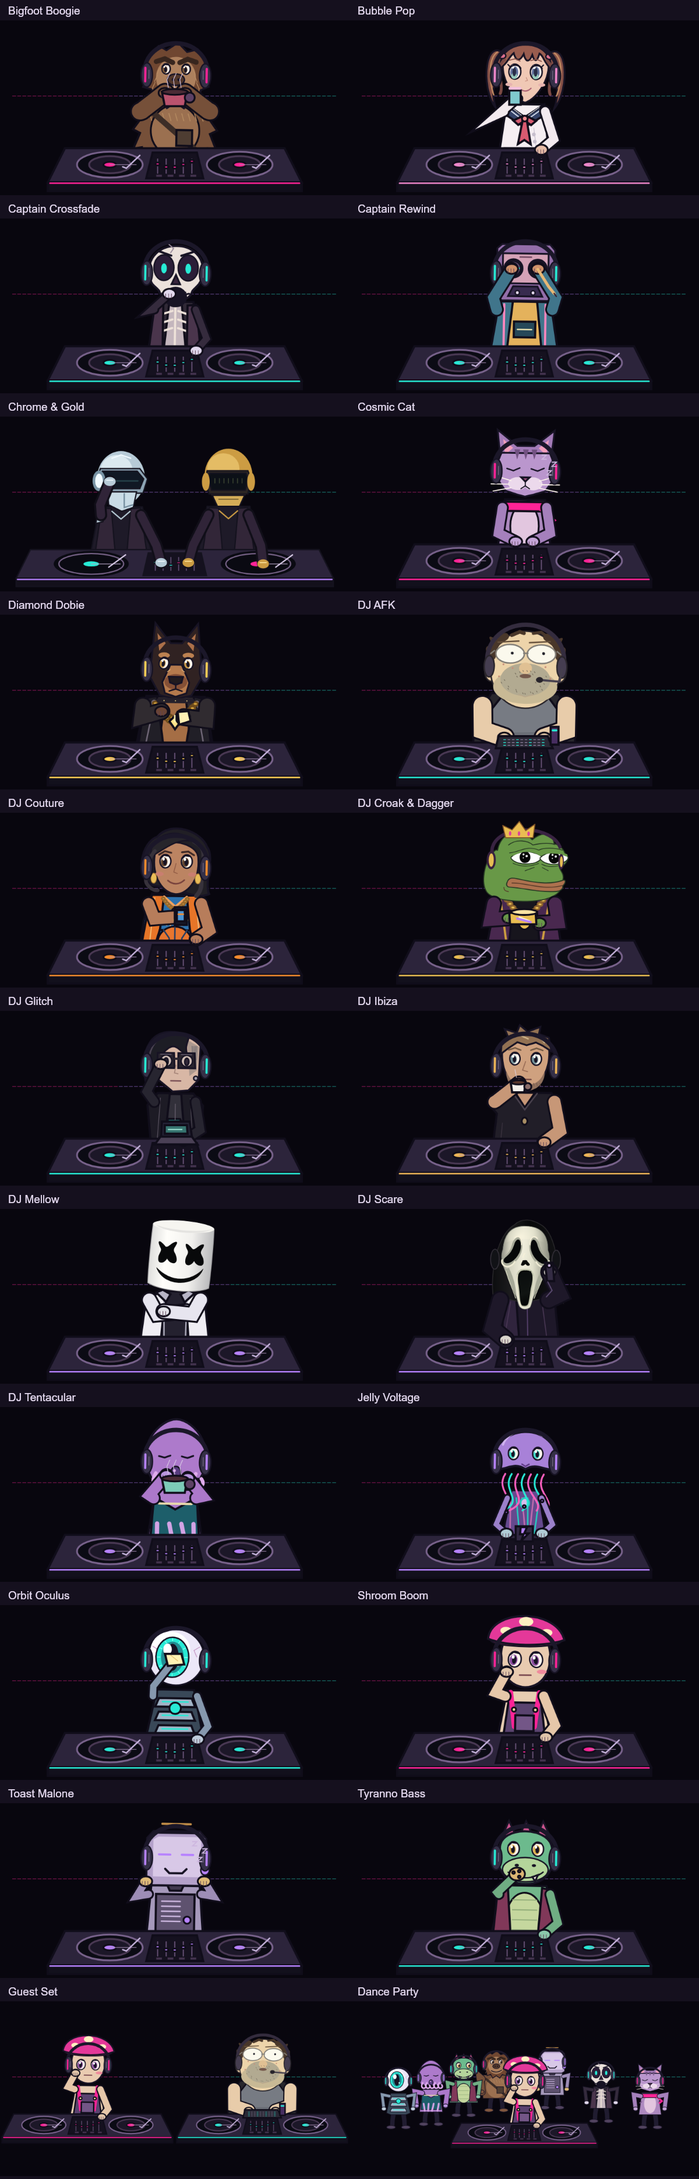
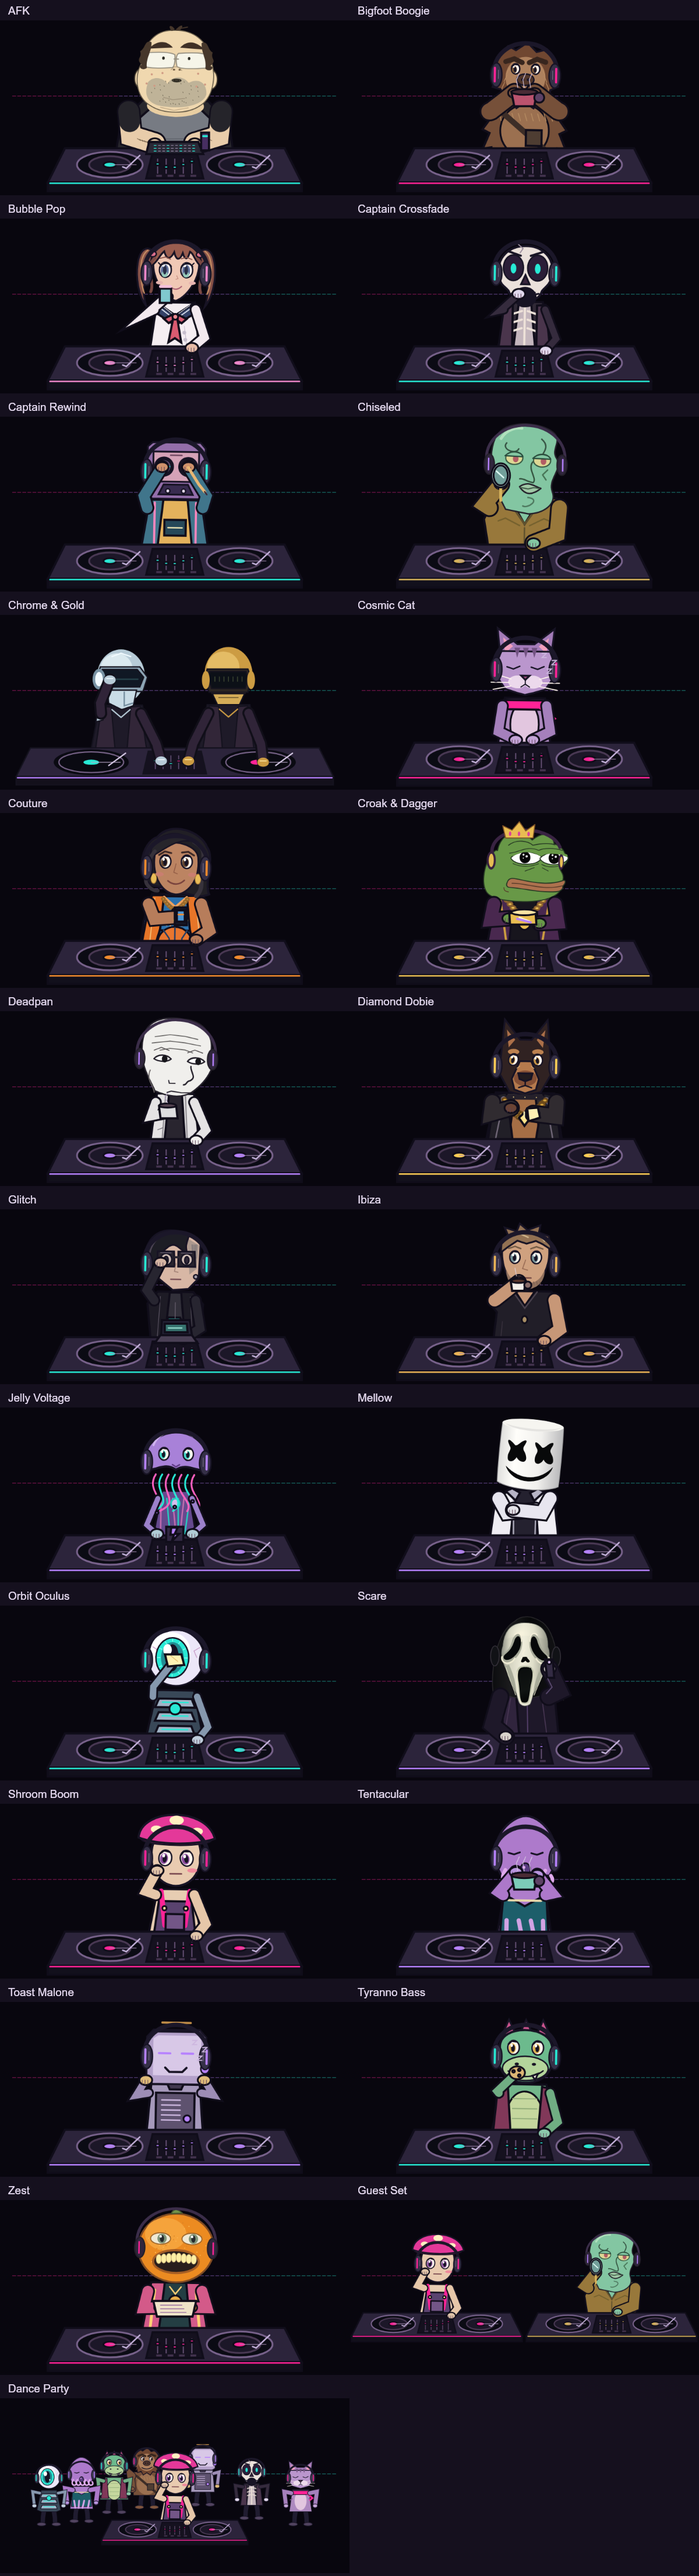
Add meme trio, refine AFK and simplify character names

Changed region(s): [[0.0, 0.0, 0.4933, 0.9925], [0.4933, 0.0, 0.9867, 0.9925]]

diff --git a/README.md b/README.md
@@ -8,7 +8,7 @@ Audio capture starts automatically. Explore EQ Bars, Warp Tunnel, Synth Grid, Sp
 
 ![Beat DJ live visualizer](docs/visualizer-7.png)
 
-**[Explore the illustrated visualizer and character guide →](docs/VISUAL-GUIDE.md)** — screenshots of all eight effects, all 17 runners, all six fighters and all 22 DJ choices, plus Chrome & Gold’s five new set routines.
+**[Explore the illustrated visualizer and character guide →](docs/VISUAL-GUIDE.md)** — screenshots of all eight effects, all 17 runners, all six fighters and all 25 DJ choices, plus Chrome & Gold’s five new set routines.
 
 ## Requirements
 
@@ -50,7 +50,7 @@ On the original Spotify screen, swipe sideways to cycle artwork and effects; swi
 
 **Beat Fighter:** six fighters, including Master Jin and The Bride, with varied targets, spinning kicks, jumps, ducks and character-specific strikes. Fighters hold a breathing ready stance between encounters. The shared Spectrum Waves effect remains behind them at reduced opacity; static arena scenery is removed. Silence animations retain their captions. Combat pace is independent of Runner and DJ speed.
 
-**Beat DJ:** twenty-two choices, alphabetized with Guest Set and Dance Party last. Distinct bodies, faces and outfits accompany scratches, fader moves, headphone checks, crowd gestures, occasional headbangs and character-specific quiet activities. DJ Croak & Dagger wears a crown and gold chain and polishes his gold during silence; DJ AFK has a broad gamer build and a keyboard break. DJ Couture takes peace-sign selfies; Toast Malone has an occasional toast/fire routine; Bubble Pop uses a bubble wand. Chrome & Gold share one two-platter table and trade mixing/hype roles, with five additional smoothly blended routines. Dance Party caps the scene at eight characters to limit rendering load.
+**Beat DJ:** twenty-five choices, alphabetized with Guest Set and Dance Party last. Distinct bodies, faces and outfits accompany scratches, fader moves, headphone checks, crowd gestures, occasional headbangs and character-specific quiet activities. Croak & Dagger wears a crown and gold chain and polishes his gold during silence; AFK has a broad gamer build, works the mixer and takes a keyboard break. Deadpan, Zest and Chiseled add coffee, joke-notes and mirror-check quiet activities. Couture takes peace-sign selfies; Toast Malone has an occasional toast/fire routine; Bubble Pop uses a bubble wand. Chrome & Gold share one two-platter table and trade mixing/hype roles, with five additional smoothly blended routines. Dance Party caps the scene at eight characters to limit rendering load.
 
 See the [visual guide](docs/VISUAL-GUIDE.md) for every character and effect.
 

diff --git a/docs/VISUAL-GUIDE.md b/docs/VISUAL-GUIDE.md
@@ -46,7 +46,7 @@ Planted martial artists with varied target heights, strikes and evasions; live S
 
 ## Beat DJ
 
-Twenty-two selectable DJ scenes, including shared-table Chrome & Gold, Guest Set and Dance Party.
+Twenty-five selectable DJ scenes, including shared-table Chrome & Gold, Guest Set and Dance Party.
 
 ![Beat DJ screenshot](visualizer-7.png)
 
@@ -66,7 +66,7 @@ Master Jin, Iron Monk, Jade Lotus, Ember Fox, Chrome Fist and The Bride. Distinc
 
 The gallery follows the alphabetical picker order, with Guest Set and Dance Party last. Tap the picture to cycle without opening a menu. The music-note button toggles lyrics independently.
 
-![All twenty-two Beat DJ scenes](dj-characters.png)
+![All twenty-five Beat DJ scenes](dj-characters.png)
 
 ## When the music stops
 
@@ -78,11 +78,17 @@ Characters settle into individual quiet activities after silence is detected, th
 
 ![DJ quiet activities](dj-quiet.png)
 
+## New arrivals: Deadpan, Zest and Chiseled
+
+Deadpan takes a coffee break, Zest reads joke notes and Chiseled admires his jaw in a mirror. All three join Guest Set and Dance Party.
+
+![Deadpan, Zest and Chiseled performing and resting](meme-trio.png)
+
 ## New arrivals: royal frog and gamer
 
-DJ Croak & Dagger uses the chosen crown-and-chain design, with a three-quarter frog face. DJ AFK has a broad gray-and-black shirt, glasses, scruffy hair and a headset. Both join the rotating Guest Set and Dance Party cast.
+Croak & Dagger uses the chosen crown-and-chain design, with a three-quarter frog face. AFK has a broad gray-and-black shirt, glasses, sparse scruffy hair, stubble and a broad slouched body. Both join the rotating Guest Set and Dance Party cast.
 
-![Croak and Dagger and DJ AFK performing and taking a break](new-djs.png)
+![Croak and Dagger and AFK performing and taking a break](new-djs.png)
 
 ## Chrome & Gold: five additional set animations
 

diff --git a/CHANGELOG.md b/CHANGELOG.md
@@ -1,5 +1,12 @@
 # Changelog
 
+## 0.2.5 — 2026-10-26
+
+- Add Deadpan, Zest and Chiseled with distinct bodies, facial artwork and quiet activities.
+- Redesign AFK with the supplied gamer reference, mixer pose B and keyboard quiet pose D.
+- Remove redundant DJ prefixes from character display names while preserving saved IDs.
+- Refresh the twenty-five-character galleries; Guest Set and Dance Party remain last.
+
 ## 0.2.4 — 2026-10-26
 
 Add DJ Croak & Dagger (royal frog) and DJ AFK (gamer), with distinct bodies, native vector heads, quiet activities and participation in Guest Set/Dance Party. Refresh the galleries for twenty-two DJ choices; existing selections retain their IDs.
